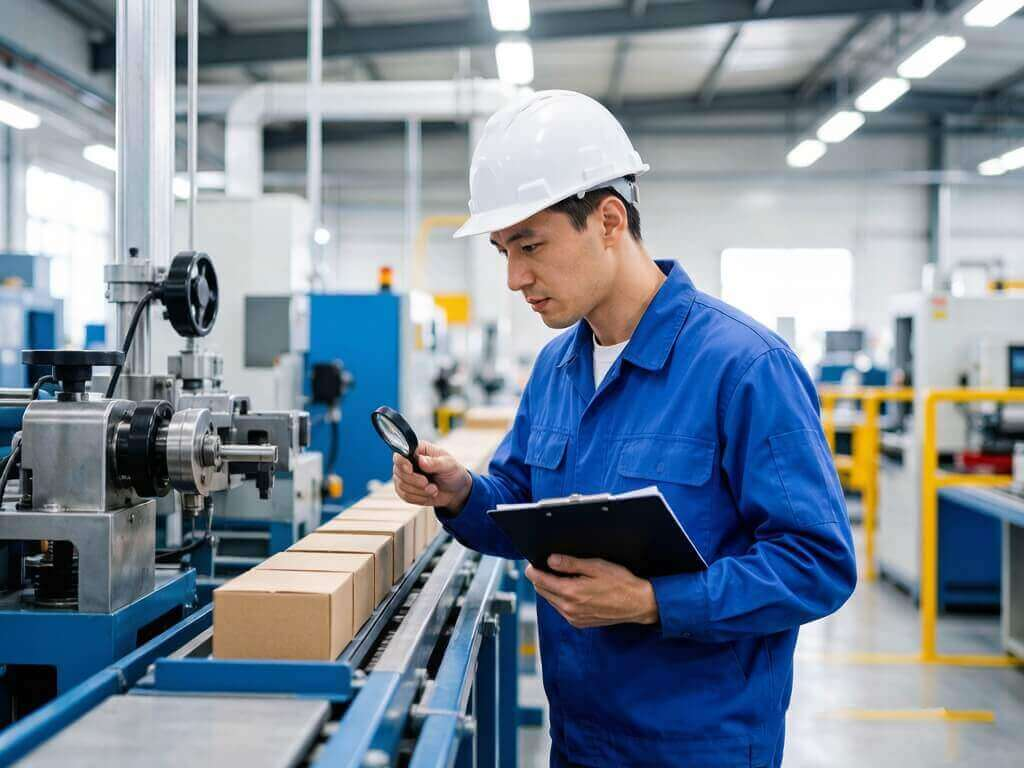
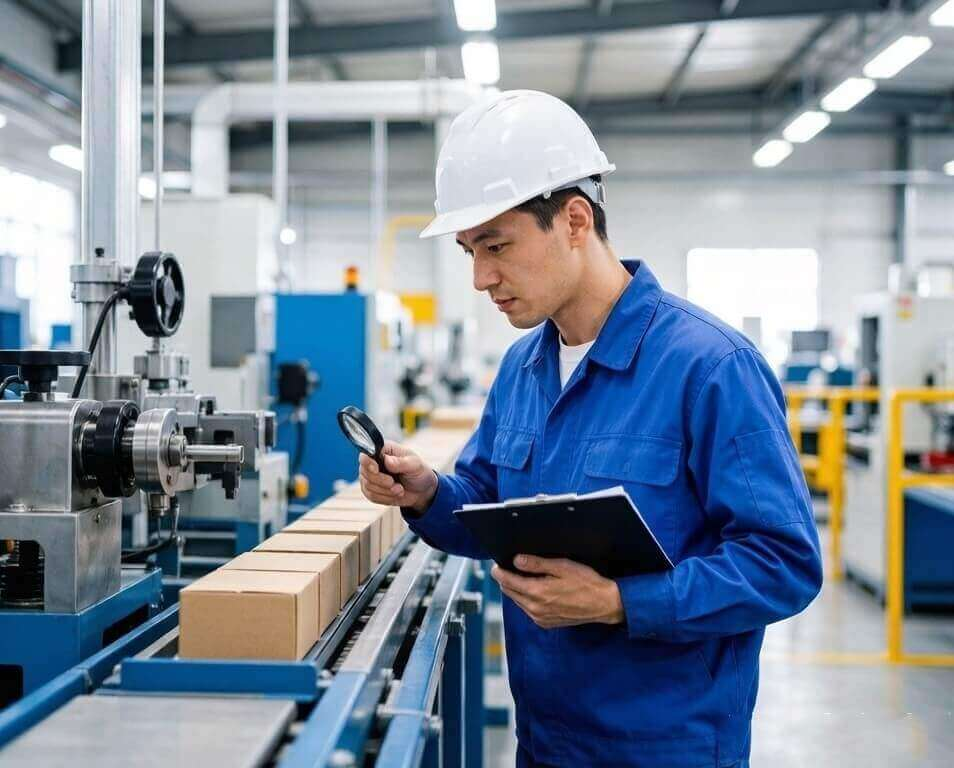
add about pic

diff --git a/index.html b/index.html
@@ -7,7 +7,7 @@
   <base href="/">
   <title data-zh="厦门亚商检验检测技术有限公司 - 专业品控咨询服务">Top Third-Party Product Inspection &amp; QC Company | China Quality Service</title>
   <meta name="description" data-zh="厦门亚商检验检测技术有限公司提供专业的第三方产品检验、工厂审核与质量控制解决方案。获取免费报价，保障您的供应链安全。" content="Expert third-party product inspection service in China from $179/man-day, 17+ years of expertise in factory audits &amp; quality control. Your supply chain, Secured.">
-  <meta name="keywords" content="product inspection service China, China product inspection, quality control China, China QC inspection, pre-shipment inspection, factory audit China, China Quality Service">
+  <meta name="keywords" content="product inspection service China, China product inspection, quality control China, China QC inspection, pre-shipment inspection, factory audit China">
   <link rel="icon" type="image/svg+xml" href="/favicon.svg">
   <link rel="icon" type="image/png" sizes="48x48" href="/favicon.png">
   <!-- Open Graph / Social -->

diff --git a/insights.html b/insights.html
@@ -7,7 +7,7 @@
   <base href="/">
   <title data-zh="洞察 - 品控案例与供应链资讯 | 厦门亚商">Quality Control Case Studies &amp; Supply Chain Insights | China Quality Service</title>
   <meta name="description" data-zh="浏览厦门亚商的真实品控案例与供应链洞察。了解我们如何帮助进口商减少缺陷、提升产品质量。" content="Browse real quality control case studies and supply chain insights from China Quality Service. Learn how we help importers reduce defects and improve product quality.">
-  <meta name="keywords" content="product inspection insights, QC insights China, inspection cases, factory resource, industry updates">
+  <meta name="keywords" content="product inspection defects, Manufactruing defects, inspection finding, factory resource">
   <link rel="icon" type="image/svg+xml" href="/favicon.svg">
   <link rel="icon" type="image/png" sizes="48x48" href="/favicon.png">
   <meta property="og:title" content="Quality Control Case Studies &amp; Supply Chain Insights | China Quality Service">

diff --git a/about.html b/about.html
@@ -7,7 +7,7 @@
   <base href="/">
   <title data-zh="关于我们 - 厦门亚商检验检测技术有限公司">17+ Years Product Inspection Expertise | China Quality Service</title>
   <meta name="description" data-zh="了解厦门亚商检验检测技术有限公司 — 拥有17年以上经验的可靠第三方检验机构，确保全球买家的产品质量与合规性。" content="China Quality Service: With 17+ years of expertise helping global buyers ensure compliance at $179/man-day. Discover why 500+ brands choose us.">
-  <meta name="keywords" content="product inspection service China, inspection company China, China Quality Service, third-party inspection China, quality control company">
+  <meta name="keywords" content="product inspection service China, inspection company China, third-party inspection China, quality control company">
   <link rel="icon" type="image/svg+xml" href="/favicon.svg">
   <link rel="icon" type="image/png" sizes="48x48" href="/favicon.png">
   <!-- Open Graph / Social -->

diff --git a/contact.html b/contact.html
@@ -7,7 +7,7 @@
   <base href="/">
   <title data-zh="联系我们 - 获取免费报价 | 厦门亚商">Contact China Quality Service: Safeguard Your China Supply Chain</title>
   <meta name="description" data-zh="立即联系厦门亚商，获取产品检验、工厂审核或质量控制服务的免费无义务报价。快速响应，保证24小时内回复。" content="Contact China Quality Service today to get a free, no-obligation quote for product inspection, factory audit, or quality control services in China. Fast response guaranteed.">
-  <meta name="keywords" content="product inspection service China, contact quality control China, get inspection quote, QC services contact">
+  <meta name="keywords" content="product inspection service China, contact quality control China, China Quality Service">
   <link rel="icon" type="image/svg+xml" href="/favicon.svg">
   <link rel="icon" type="image/png" sizes="48x48" href="/favicon.png">
   <!-- Open Graph / Social -->

diff --git a/services.html b/services.html
@@ -7,7 +7,7 @@
   <base href="/">
   <title data-zh="验货服务 - 厦门亚商检验检测技术有限公司">Product Inspection Services &amp; Factory Audit | China Quality Service</title>
   <meta name="description" data-zh="探索厦门亚商的全面产品检验服务，包括工厂审核、出货前QC、实验室测试和供应商管理。立即保护您的品牌。" content="Product inspection service in China at $179/man-day, factory audits, pre-shipment QC, lab testing and supplier management. Protect your supply chain with CNQ today.">
-  <meta name="keywords" content="product inspection service China, China product inspection, factory audit China">
+  <meta name="keywords" content="product inspection service China, China product inspection, pre-shipment inspection, factory audit China">
   <link rel="icon" type="image/svg+xml" href="/favicon.svg">
   <link rel="icon" type="image/png" sizes="48x48" href="/favicon.png">
   <!-- Open Graph / Social -->

diff --git a/css/style.css b/css/style.css
@@ -162,7 +162,7 @@ ul, ol { list-style: none; }
 .stat-item p { font-size: 0.95rem; opacity: 0.8; }
 
 /* ---------- About Preview (Home) ---------- */
-.about-preview { display: grid; grid-template-columns: 1fr 1fr; gap: 10px; align-items: center; }
+.about-preview { display: grid; grid-template-columns: 1fr 1fr; gap: 5px; align-items: center; }
 .about-preview img { border-radius: var(--radius); box-shadow: var(--shadow); }
 .about-preview h2 { font-size: 2rem; color: var(--primary); margin-bottom: 20px; }
 .about-preview p { color: var(--text-body); margin-bottom: 16px; }
